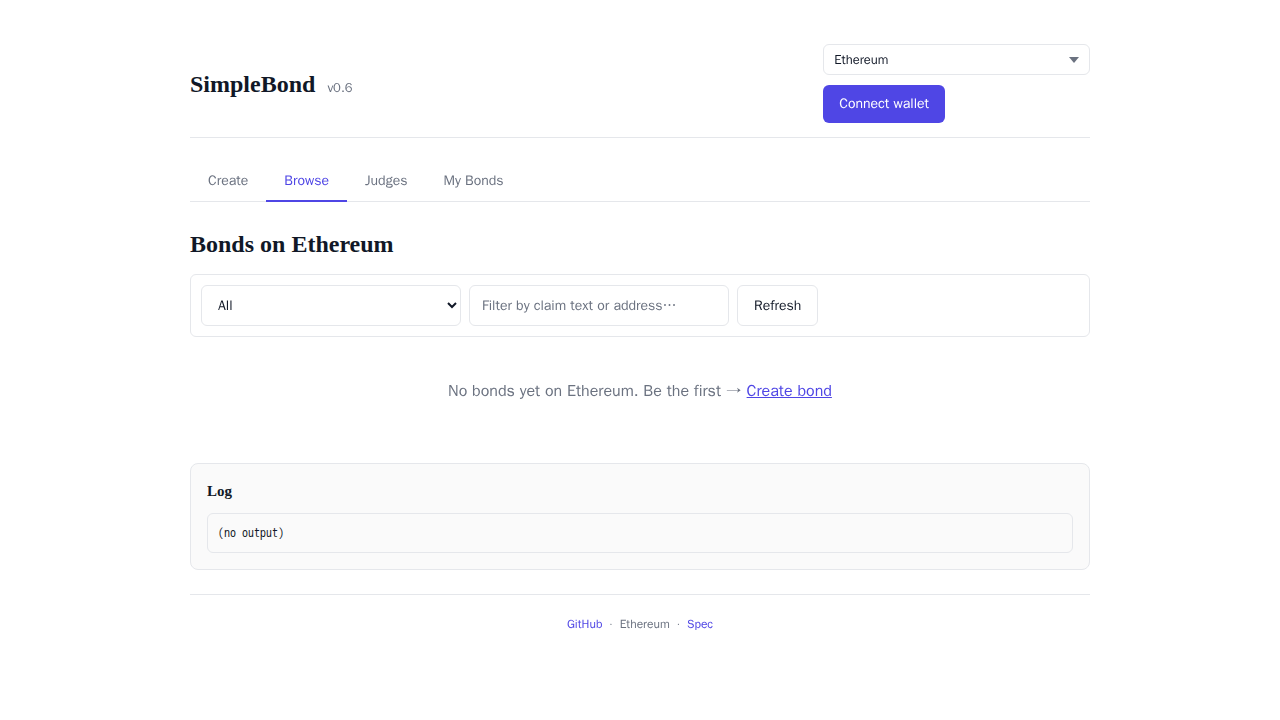
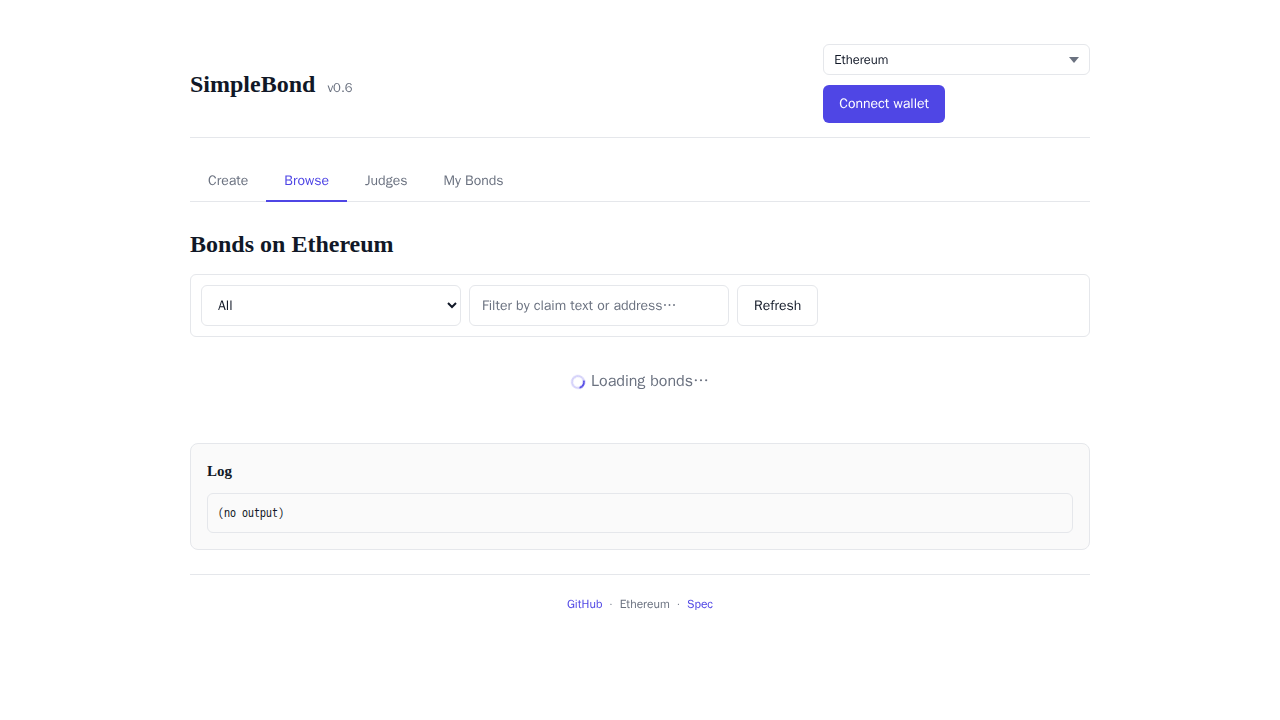
frontend: harden mainnet read RPC with FallbackProvider
A user on mainnet hit two symptoms back-to-back:
  - "$100 ≈ 100.00 sUSDS" instead of the ≈91 sUSDS the 0.911 rate
    implies — susdsRate() silently fell back to 1:1
  - "Create failed: could not coalesce error" on the bond submit

Both trace to publicnode.com dropping the request mid-call from their
browser (the console showed ERR_CONNECTION_CLOSED). Now:

- chains[1] carries an `rpcs` list (drpc → ankr → publicnode → cloudflare).
  readProvider() wires those into ethers FallbackProvider with quorum=1
  so a single dropped endpoint no longer poisons every read.
- The provider is cached per chain — previously every contract read
  rebuilt JsonRpcProvider and re-ran network detection.
- friendlyError() recognises ethers' "could not coalesce error" string
  and surfaces actionable guidance (refresh, try Rabby) instead of the
  raw token.

The wallet-side provider for write txs is unchanged — that path runs
through whichever EIP-1193 the user's wallet injects. The new error
message is the actionable part for that case.

Changed region(s): [[0.3438, 0.5194, 0.6562, 0.55], [0.4375, 0.825, 0.5625, 0.8861], [0.1562, 0.6417, 0.2188, 0.7639]]

diff --git a/frontend/index.html b/frontend/index.html
@@ -559,7 +559,14 @@
   }
   function friendlyError(err) {
     if (isUserRejection(err)) return 'Transaction cancelled.';
-    return err?.reason || err?.shortMessage || err?.message || String(err);
+    const msg = String(err?.reason || err?.shortMessage || err?.message || err);
+    // "could not coalesce error" is ethers v6's fallback when the wallet
+    // provider returns a non-standard / empty error. Usually means a
+    // dropped RPC or a wallet whose response shape ethers doesn't know.
+    if (/could not coalesce/i.test(msg)) {
+      return "Your wallet's RPC dropped or returned an unexpected response. Try: refresh the page, switch wallet (Rabby is the most reliable), or try again in a few seconds.";
+    }
+    return msg;
   }
   // sUSDS funding plumbing — addresses + state detection + path selection.
   const MAINNET_SUSDS = '0xa3931d71877C0E7a3148CB7Eb4463524FEc27fbD'.toLowerCase();
@@ -812,10 +819,32 @@
   }
 
   // ─── Contract factories ────────────────────────────────────────────────
+  // Cached read provider per chain so we don't re-create the network on
+  // every call. A FallbackProvider is used when chain.rpcs is an array,
+  // giving us automatic failover when a public RPC drops connections
+  // (publicnode.com has been flaky from some browsers).
+  const _readProviderCache = {};
   function readProvider() {
     const c = chain();
-    if (!c || !c.rpc) throw new Error(`Missing rpc in runtime-config.chains[${activeChainId}]`);
-    return new ethers.JsonRpcProvider(c.rpc);
+    if (!c) throw new Error(`No chain in runtime-config.chains[${activeChainId}]`);
+    const key = String(activeChainId);
+    if (_readProviderCache[key]) return _readProviderCache[key];
+    const list = Array.isArray(c.rpcs) && c.rpcs.length ? c.rpcs : (c.rpc ? [c.rpc] : []);
+    if (list.length === 0) throw new Error(`Missing rpc in runtime-config.chains[${activeChainId}]`);
+    if (list.length === 1) {
+      _readProviderCache[key] = new ethers.JsonRpcProvider(list[0]);
+    } else {
+      const providers = list.map((u, i) => ({
+        provider: new ethers.JsonRpcProvider(u),
+        priority: i,
+        stallTimeout: 1500,
+        weight: 1,
+      }));
+      // FallbackProvider with quorum=1 returns first-success; if it errors,
+      // the next provider gets tried.
+      _readProviderCache[key] = new ethers.FallbackProvider(providers, undefined, { quorum: 1 });
+    }
+    return _readProviderCache[key];
   }
   function bondReadContract() {
     const c = chain();

diff --git a/frontend/v6/index.html b/frontend/v6/index.html
@@ -559,7 +559,14 @@
   }
   function friendlyError(err) {
     if (isUserRejection(err)) return 'Transaction cancelled.';
-    return err?.reason || err?.shortMessage || err?.message || String(err);
+    const msg = String(err?.reason || err?.shortMessage || err?.message || err);
+    // "could not coalesce error" is ethers v6's fallback when the wallet
+    // provider returns a non-standard / empty error. Usually means a
+    // dropped RPC or a wallet whose response shape ethers doesn't know.
+    if (/could not coalesce/i.test(msg)) {
+      return "Your wallet's RPC dropped or returned an unexpected response. Try: refresh the page, switch wallet (Rabby is the most reliable), or try again in a few seconds.";
+    }
+    return msg;
   }
   // sUSDS funding plumbing — addresses + state detection + path selection.
   const MAINNET_SUSDS = '0xa3931d71877C0E7a3148CB7Eb4463524FEc27fbD'.toLowerCase();
@@ -812,10 +819,32 @@
   }
 
   // ─── Contract factories ────────────────────────────────────────────────
+  // Cached read provider per chain so we don't re-create the network on
+  // every call. A FallbackProvider is used when chain.rpcs is an array,
+  // giving us automatic failover when a public RPC drops connections
+  // (publicnode.com has been flaky from some browsers).
+  const _readProviderCache = {};
   function readProvider() {
     const c = chain();
-    if (!c || !c.rpc) throw new Error(`Missing rpc in runtime-config.chains[${activeChainId}]`);
-    return new ethers.JsonRpcProvider(c.rpc);
+    if (!c) throw new Error(`No chain in runtime-config.chains[${activeChainId}]`);
+    const key = String(activeChainId);
+    if (_readProviderCache[key]) return _readProviderCache[key];
+    const list = Array.isArray(c.rpcs) && c.rpcs.length ? c.rpcs : (c.rpc ? [c.rpc] : []);
+    if (list.length === 0) throw new Error(`Missing rpc in runtime-config.chains[${activeChainId}]`);
+    if (list.length === 1) {
+      _readProviderCache[key] = new ethers.JsonRpcProvider(list[0]);
+    } else {
+      const providers = list.map((u, i) => ({
+        provider: new ethers.JsonRpcProvider(u),
+        priority: i,
+        stallTimeout: 1500,
+        weight: 1,
+      }));
+      // FallbackProvider with quorum=1 returns first-success; if it errors,
+      // the next provider gets tried.
+      _readProviderCache[key] = new ethers.FallbackProvider(providers, undefined, { quorum: 1 });
+    }
+    return _readProviderCache[key];
   }
   function bondReadContract() {
     const c = chain();

diff --git a/frontend/runtime-config.js b/frontend/runtime-config.js
@@ -15,7 +15,16 @@ window.SIMPLE_BOND_CONFIG = Object.assign(
     chains: {
       1: {
         name: "Ethereum",
-        rpc: "https://ethereum-rpc.publicnode.com",
+        // FallbackProvider walks this list in order — publicnode has been
+        // intermittently dropping connections in some browsers, so we lead
+        // with a more reliable endpoint.
+        rpc: "https://eth.drpc.org",
+        rpcs: [
+          "https://eth.drpc.org",
+          "https://rpc.ankr.com/eth",
+          "https://ethereum-rpc.publicnode.com",
+          "https://cloudflare-eth.com",
+        ],
         bondContract: "0x6B24380B1980db3e2DfDd2b62f5ed3E7E88DFA43",
         deployBlock: 25139967,
         judgeProfileRegistry: "0x8fee829120b8823899372Ac3d39f77746192b407",
